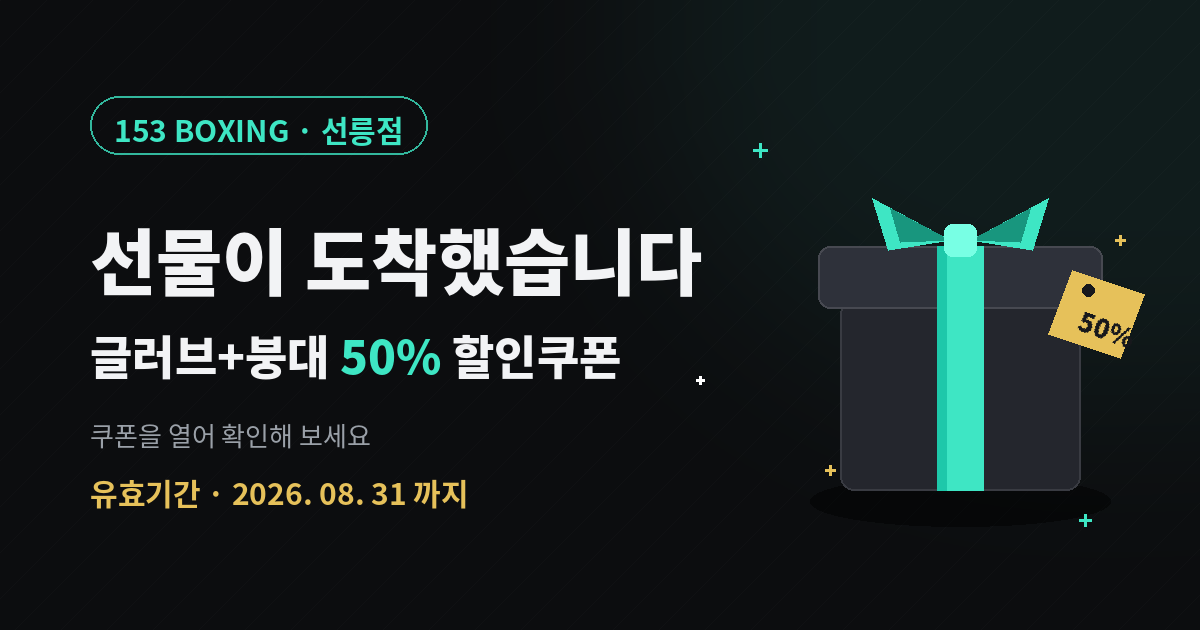
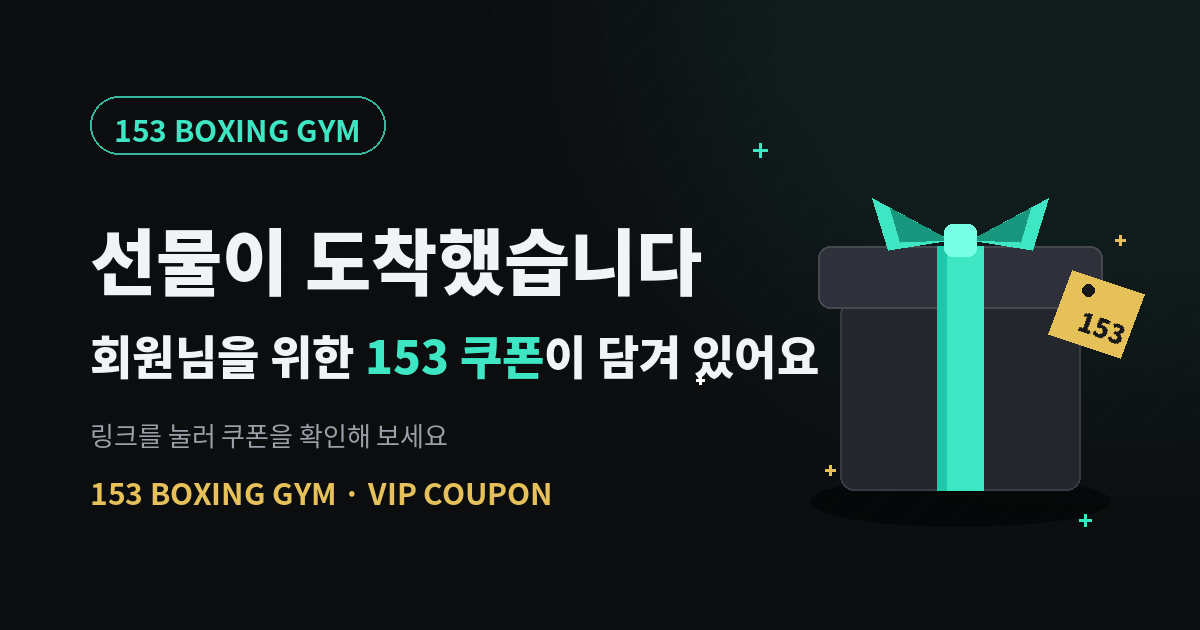
fix: vip OG Function 원본으로 교체
Claude-Session: https://claude.ai/code/session_01Q93dy5mdHZjJFEYe1iNfeT

diff --git a/apps/crm/functions/vip.ts b/apps/crm/functions/vip.ts
@@ -1,241 +1,33 @@
-// /vip — 카톡·문자 공유용 쿠폰 랜딩 페이지 (OG 미리보기 포함)
-// Cloudflare Pages Function: apps/crm/functions/vip.ts → https://<도메인>/vip
-// OG 이미지는 /vip-og.png (apps/crm/public/vip-og.png, 1200x630)
+// apps/crm/functions/vip.ts
+// /vip 경로에만 카톡·문자 링크 미리보기(OG) 태그를 주입하는 Cloudflare Pages Function.
+// SPA 본체·라우팅·다른 경로에는 아무 영향 없음. #d= 해시 데이터도 그대로 동작.
+export const onRequestGet: PagesFunction = async (context) => {
+  const response = await context.next(); // 기존 SPA index.html 그대로 받아서
 
-interface RequestContext {
-  request: Request;
-}
+  const contentType = response.headers.get("content-type") ?? "";
+  if (!contentType.includes("text/html")) return response;
 
-const renderHtml = (origin: string): string => `<!DOCTYPE html>
-<html lang="ko">
-<head>
-<meta charset="UTF-8">
-<meta name="viewport" content="width=device-width, initial-scale=1.0">
-<title>🎁 153복싱짐 선릉점 · 글러브+붕대 50% 할인쿠폰</title>
-<meta property="og:type" content="website">
-<meta property="og:title" content="🎁 선물이 도착했습니다">
-<meta property="og:description" content="153복싱짐 선릉점 · 글러브+붕대 50% 할인쿠폰 (8/31까지)">
-<meta property="og:image" content="${origin}/vip-og.png">
-<meta property="og:image:width" content="1200">
-<meta property="og:image:height" content="630">
-<meta property="og:url" content="${origin}/vip">
-<meta name="twitter:card" content="summary_large_image">
-<meta name="twitter:image" content="${origin}/vip-og.png">
-<link href="https://fonts.googleapis.com/css2?family=Noto+Sans+KR:wght@400;500;700;900&family=Archivo+Black&display=swap" rel="stylesheet">
-<style>
-  :root{
-    --bg:#0c0d0f;
-    --charcoal:#17181c;
-    --charcoal2:#1e2026;
-    --mint:#3ee6c4;
-    --gold:#e6c15a;
-    --text:#f2f3f5;
-    --sub:#9aa0a8;
-    --line:rgba(255,255,255,.08);
-  }
-  *{margin:0;padding:0;box-sizing:border-box;}
-  body{
-    background:var(--bg);
-    min-height:100vh;
-    display:flex;
-    align-items:center;
-    justify-content:center;
-    padding:32px 16px;
-    font-family:'Noto Sans KR',sans-serif;
-    background-image:
-      radial-gradient(ellipse 60% 40% at 50% 0%, rgba(62,230,196,.06), transparent 70%),
-      repeating-linear-gradient(135deg, transparent 0 14px, rgba(255,255,255,.012) 14px 15px);
-  }
-  .coupon{
-    width:380px;
-    max-width:100%;
-    background:linear-gradient(160deg, var(--charcoal2) 0%, var(--charcoal) 55%, #121317 100%);
-    border:1px solid var(--line);
-    border-radius:20px;
-    overflow:hidden;
-    position:relative;
-    box-shadow:0 24px 60px rgba(0,0,0,.6), 0 0 0 1px rgba(62,230,196,.06);
-  }
-  /* 상단 브랜드 바 */
-  .brandbar{
-    display:flex;
-    align-items:center;
-    justify-content:space-between;
-    padding:18px 22px 14px;
-    border-bottom:1px solid var(--line);
-  }
-  .logo{
-    font-family:'Archivo Black',sans-serif;
-    font-size:19px;
-    letter-spacing:.5px;
-    color:var(--text);
-  }
-  .logo em{font-style:normal;color:var(--mint);}
-  .branch{
-    font-size:12px;
-    font-weight:700;
-    color:var(--mint);
-    border:1px solid rgba(62,230,196,.4);
-    padding:4px 10px;
-    border-radius:999px;
-    letter-spacing:.06em;
-  }
-  /* 본문 */
-  .body{
-    padding:26px 22px 22px;
-    text-align:center;
-    position:relative;
-  }
-  .item{
-    font-size:15px;
-    font-weight:700;
-    color:var(--text);
-    letter-spacing:.14em;
-    margin-bottom:6px;
-  }
-  .item span{color:var(--sub);font-weight:500;letter-spacing:.1em;}
-  .pct{
-    font-family:'Archivo Black','Noto Sans KR',sans-serif;
-    font-size:96px;
-    line-height:1;
-    color:var(--mint);
-    letter-spacing:-2px;
-    text-shadow:0 0 34px rgba(62,230,196,.28);
-  }
-  .pct small{
-    font-size:34px;
-    letter-spacing:0;
-    vertical-align:18px;
-  }
-  .off{
-    display:inline-block;
-    margin-top:8px;
-    font-size:13px;
-    font-weight:900;
-    letter-spacing:.5em;
-    text-indent:.5em;
-    color:var(--text);
-    padding:6px 14px;
-    border-top:1px solid var(--line);
-    border-bottom:1px solid var(--line);
-  }
-  .desc{
-    margin-top:16px;
-    font-size:13px;
-    color:var(--sub);
-    line-height:1.7;
-  }
-  .desc b{color:var(--text);font-weight:700;}
-  /* 절취선 */
-  .tear{
-    position:relative;
-    height:0;
-    border-top:2px dashed rgba(255,255,255,.16);
-    margin:0 14px;
-  }
-  .tear::before,.tear::after{
-    content:'';
-    position:absolute;
-    top:-13px;
-    width:26px;height:26px;
-    border-radius:50%;
-    background:var(--bg);
-    border:1px solid var(--line);
-  }
-  .tear::before{left:-28px;}
-  .tear::after{right:-28px;}
-  /* 하단 */
-  .foot{
-    padding:18px 22px 22px;
-  }
-  .row{
-    display:flex;
-    justify-content:space-between;
-    align-items:baseline;
-    font-size:12.5px;
-    padding:5px 0;
-  }
-  .row .k{color:var(--sub);font-weight:500;}
-  .row .v{color:var(--text);font-weight:700;letter-spacing:.02em;}
-  .row .v.gold{color:var(--gold);}
-  .serial{
-    margin-top:14px;
-    display:flex;
-    align-items:center;
-    justify-content:space-between;
-    background:rgba(0,0,0,.35);
-    border:1px solid var(--line);
-    border-radius:10px;
-    padding:10px 14px;
-  }
-  .serial .no{
-    font-family:'Archivo Black',monospace;
-    font-size:14px;
-    letter-spacing:.22em;
-    color:var(--text);
-  }
-  .serial .tag{
-    font-size:10.5px;
-    font-weight:700;
-    color:var(--bg);
-    background:var(--mint);
-    border-radius:5px;
-    padding:3px 8px;
-    letter-spacing:.05em;
-  }
-  .notice{
-    margin-top:12px;
-    font-size:10.5px;
-    color:#6b7077;
-    line-height:1.75;
-  }
-</style>
-</head>
-<body>
-  <div class="coupon">
-    <div class="brandbar">
-      <div class="logo">15<em>3</em> BOXING</div>
-      <div class="branch">선릉점 전용</div>
-    </div>
+  const ogTags = `
+    <meta property="og:type" content="website" />
+    <meta property="og:title" content="🎁 선물이 도착했습니다" />
+    <meta property="og:description" content="153복싱짐 쿠폰이 담겨 있어요. 눌러서 확인해 보세요." />
+    <meta property="og:image" content="https://153-boxing-os.pages.dev/vip-og.png" />
+    <meta property="og:image:width" content="1200" />
+    <meta property="og:image:height" content="630" />
+    <meta name="twitter:card" content="summary_large_image" />
+    <meta name="twitter:image" content="https://153-boxing-os.pages.dev/vip-og.png" />
+  `;
 
-    <div class="body">
-      <div class="item">글러브 <span>+</span> 붕대 세트</div>
-      <div class="pct">50<small>%</small></div>
-      <div class="off">할인쿠폰</div>
-      <div class="desc">
-        선릉점 카운터에서 이 쿠폰을 보여주시면<br>
-        <b>글러브·붕대 구매 시 50% 할인</b>이 적용됩니다.
-      </div>
-    </div>
-
-    <div class="tear"></div>
-
-    <div class="foot">
-      <div class="row"><span class="k">사용 지점</span><span class="v">153복싱짐 선릉점 (선릉역 도보 2분)</span></div>
-      <div class="row"><span class="k">유효기간</span><span class="v gold">2026. 07. 20 ~ 2026. 08. 31</span></div>
-      <div class="row"><span class="k">사용 조건</span><span class="v">1인 1회 · 현장 결제 시 제시</span></div>
-
-      <div class="serial">
-        <span class="no">153-SL-5050</span>
-        <span class="tag">COUPON</span>
-      </div>
-
-      <div class="notice">
-        · 타 할인·프로모션과 중복 적용 불가 &nbsp;· 재고 소진 시 조기 종료될 수 있습니다<br>
-        · 문의: 153복싱짐 선릉점 카운터
-      </div>
-    </div>
-  </div>
-</body>
-</html>
-`;
-
-export const onRequestGet = ({ request }: RequestContext): Response => {
-  const origin = new URL(request.url).origin;
-  return new Response(renderHtml(origin), {
-    headers: {
-      'content-type': 'text/html; charset=utf-8',
-      'cache-control': 'public, max-age=300',
-    },
-  });
+  try {
+    return new HTMLRewriter()
+      .on("head", {
+        element(el) {
+          el.append(ogTags, { html: true });
+        },
+      })
+      .transform(response);
+  } catch {
+    // 주입 실패 시에도 쿠폰 페이지는 정상 서빙
+    return response;
+  }
 };
